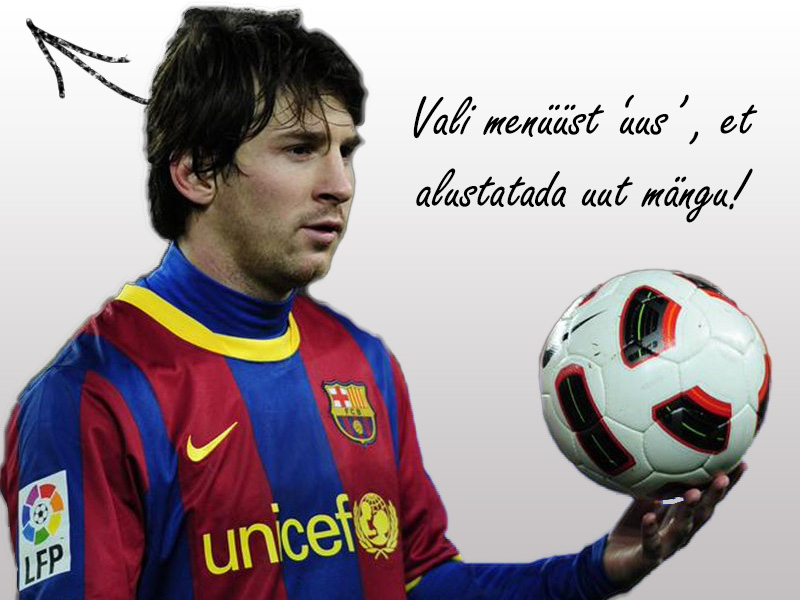
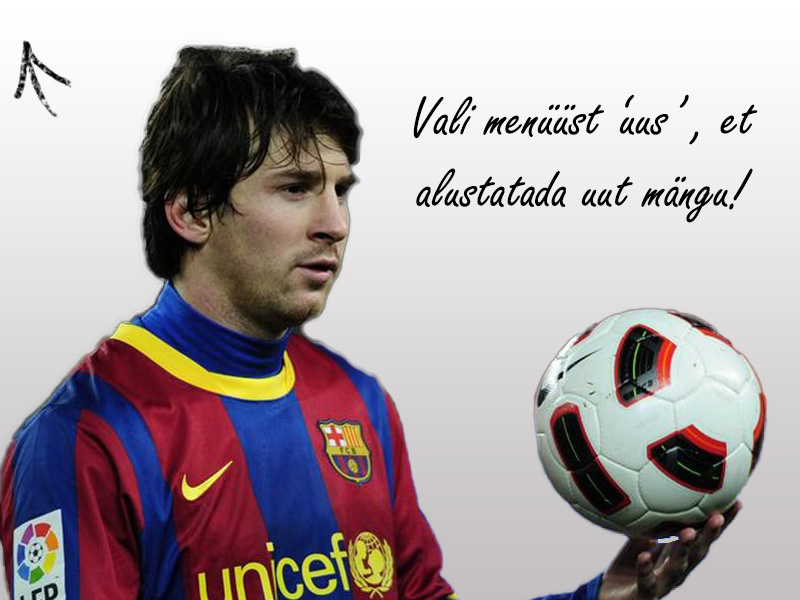
Eemaldasin buge, muutsin süsteemi,  lisasin ikooni ja muutsin veidi taustapilti.

diff --git a/src/application/application.css b/src/application/application.css
@@ -1,7 +1,7 @@
 #pane{
     -fx-background-image: url("WelcomeScreen.jpg");
     -fx-background-repeat: stretch;   
-    -fx-background-size: 800 600;
+    -fx-background-size: 815 610;
     -fx-background-position: center center;
     -fx-effect: dropshadow(three-pass-box, black, 30, 0.5, 0, 0); 
 }

diff --git a/src/application/Main.java b/src/application/Main.java
@@ -5,14 +5,8 @@ import gui.MakeTabs;
 import gui.NewGameWindow;
 import jalgpall.Game;
 import javafx.application.Application;
-import javafx.scene.Group;
 import javafx.scene.Scene;
 import javafx.scene.image.Image;
-import javafx.scene.layout.Background;
-import javafx.scene.layout.BackgroundImage;
-import javafx.scene.layout.BackgroundPosition;
-import javafx.scene.layout.BackgroundRepeat;
-import javafx.scene.layout.BackgroundSize;
 import javafx.scene.layout.BorderPane;
 import javafx.scene.paint.Color;
 import javafx.stage.Stage;
@@ -27,6 +21,8 @@ public class Main extends Application {
 	public void start(Stage primaryStage) {
 		
 		mainStage = primaryStage;
+		mainStage.getIcons().add(new Image(
+				this.getClass().getResource("ball.png").toExternalForm()));
 		mainStage.setTitle("Jalgpall");		
 
 		startPane = new BorderPane();
@@ -56,8 +52,6 @@ public class Main extends Application {
 		MakeMenu.make(borderPane, mainStage);
 		MakeTabs.make(borderPane);
 		mainStage.setScene(scene);
-		mainStage.setResizable(false);
-		mainStage.show();
 	}
 
 	public static void main(String[] args) {

diff --git a/src/jalgpall/Team.java b/src/jalgpall/Team.java
@@ -6,6 +6,7 @@ public class Team {
 	private String teamName;
 	private ArrayList<Player> mainplayers;
 	private ArrayList<Player> benchplayers = null;
+	private int index;
 
 	public ArrayList<Player> getMainplayers() {
 		return mainplayers;
@@ -19,18 +20,20 @@ public class Team {
 	 * @param teamName
 	 *            Meeskonna nimi.
 	 */
-	public Team(String teamName, ArrayList<Player> mainplayers) {
+	public Team(String teamName, ArrayList<Player> mainplayers, int index) {
 		super();
 		this.teamName = teamName;
 		this.mainplayers = mainplayers;
+		this.index = index;
 	}
 
 	public Team(String teamName, ArrayList<Player> mainplayers,
-			ArrayList<Player> benchplayers) {
+			ArrayList<Player> benchplayers, int index) {
 		super();
 		this.teamName = teamName;
 		this.mainplayers = mainplayers;
 		this.benchplayers = benchplayers;
+		this.index = index;
 	}
 
 	String getTeamName() {

diff --git a/src/gui/MakeTabs.java b/src/gui/MakeTabs.java
@@ -1,13 +1,10 @@
 package gui;
 
-import eventHandlers.KeyboardHandler;
-import javafx.geometry.Pos;
-import javafx.scene.control.Label;
 import javafx.scene.control.Tab;
 import javafx.scene.control.TabPane;
 import javafx.scene.input.KeyEvent;
 import javafx.scene.layout.BorderPane;
-import javafx.scene.layout.HBox;
+import eventHandlers.KeyboardHandler;
 
 public class MakeTabs {
 	public static void make(BorderPane borderPane) {

diff --git a/src/exceptions/IncorrectInputException.java b/src/exceptions/IncorrectInputException.java
@@ -1,0 +1,14 @@
+package exceptions;
+
+public class IncorrectInputException extends Exception {
+
+	private static final long serialVersionUID = 1L;
+
+	public IncorrectInputException() {
+		super();
+	}
+
+	public IncorrectInputException(String arg0) {
+		super(arg0);
+	}
+}
